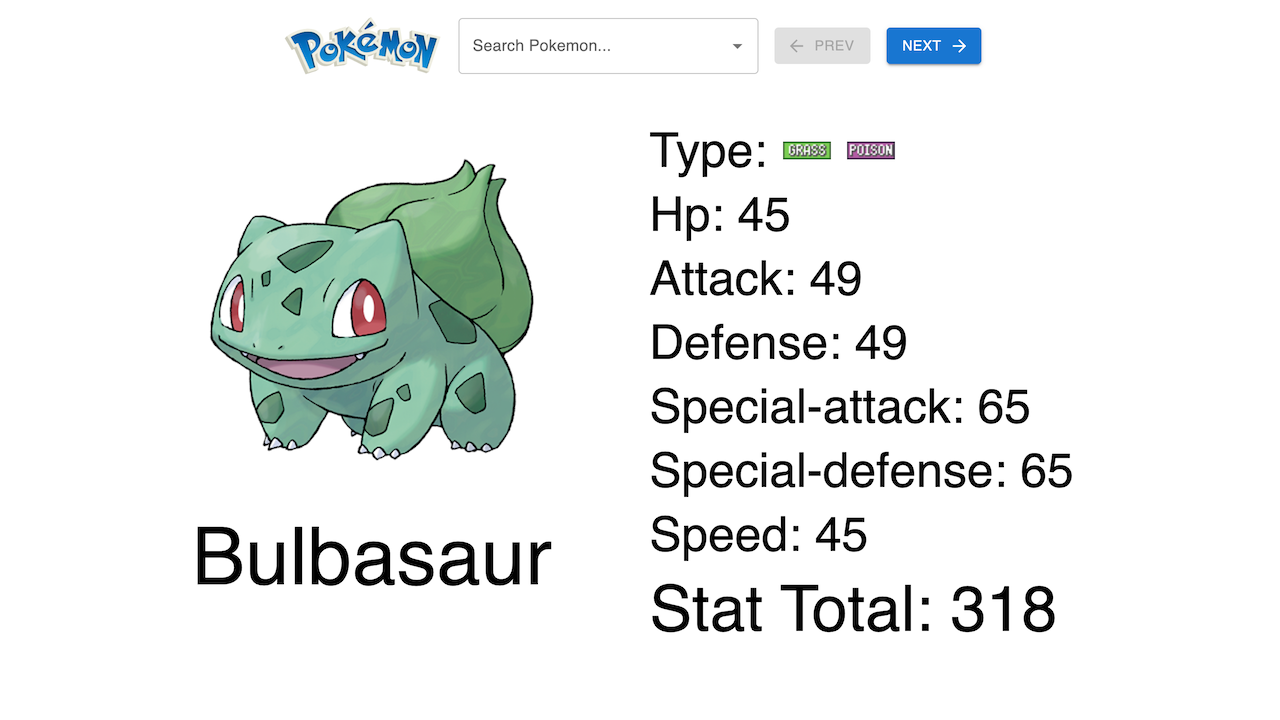
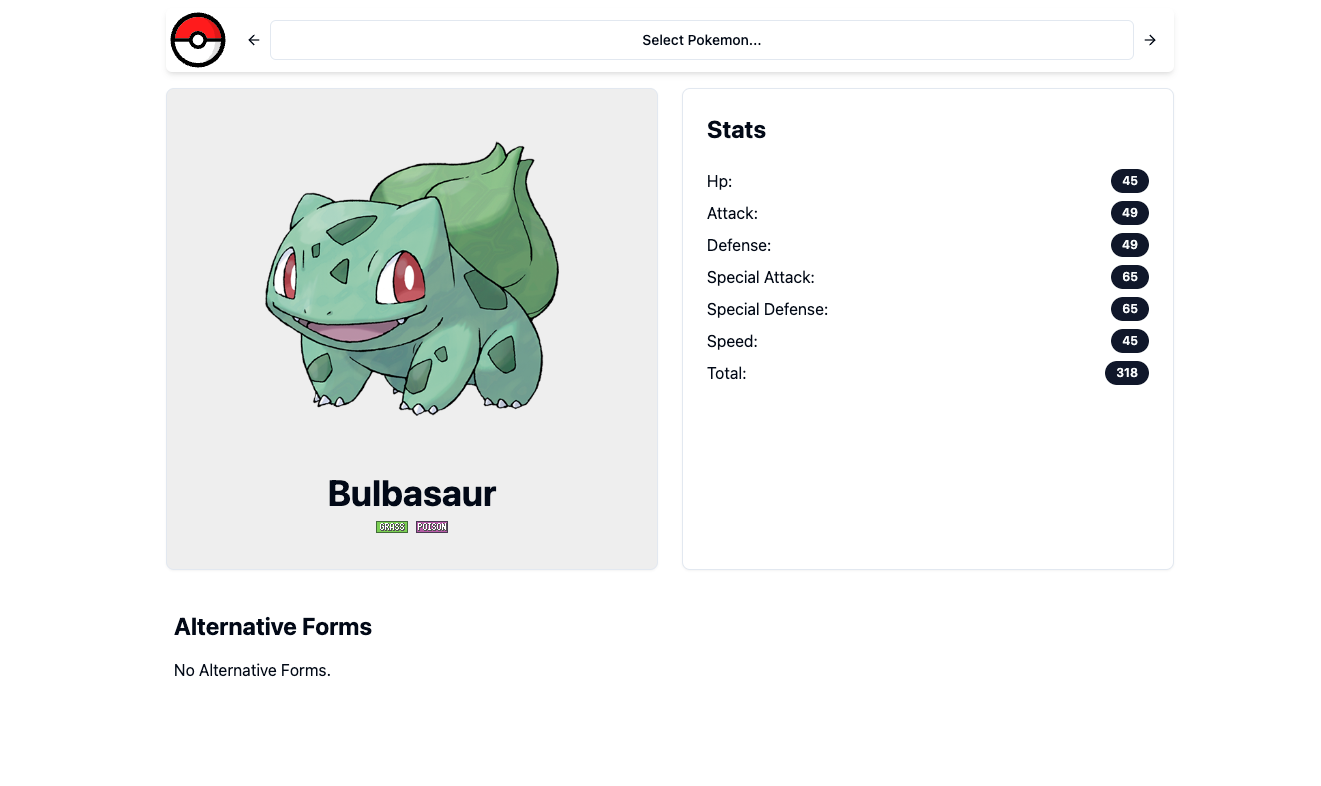
feat(content): update portfolio

diff --git a/src/content/work/pokedex.md b/src/content/work/pokedex.md
@@ -1,6 +1,6 @@
 ---
 title: Pokédex
-publishDate: 2021-03-02 00:00:00
+publishDate: 2022-03-02 00:00:00
 link: https://adam-s-gibson.github.io/pokemon-stat-dex/
 img: /assets/pokedex.png
 img_alt: A picture of a Bulbasaur with its stats and typing next to it
@@ -9,14 +9,21 @@ description: |
   A place to find information on your favourite pokémon
 tags:
   - React
-  - MaterialUI (MUI)
-  - API
+  - Shadcn/UI
+  - GraphQL
 ---
 
-Developing a Pokedex app was an exciting journey. To begin building the front-end of the app, I used MUI, a popular UI framework for React, to create a clean and visually appealing user interface. MUI provided me with pre-built components and styling guidelines, allowing me to quickly build the app's layout and features.
+Developing a comprehensive and interactive Pokémon application was a challenging and rewarding endeavor. The journey began with the decision to utilize a robust and modern tech stack to ensure a seamless and engaging user experience.
 
-For the app's functionality, I integrated the PokeAPI, a RESTful API that provides comprehensive data about the Pokemon universe. With the help of the PokeAPI, I was able to display detailed information about each Pokemon, including its name, types, and stats.
+The front-end of the application was crafted using React, a popular JavaScript library known for its efficiency and flexibility in building dynamic user interfaces. To further enhance the visual appeal and usability, Tailwind CSS was employed. This utility-first CSS framework enabled rapid styling and customization of the application, allowing for a unique and responsive design that adapts to different screen sizes and devices.
 
-To enhance the user experience, I added features such as search and filtering, allowing users to easily find Pokemon by name.
+Central to the app's functionality was the integration with the PokeAPI, a versatile GraphQL API offering extensive data on the Pokémon universe. This integration was key in fetching and displaying intricate details about each Pokémon, including their names, types, abilities, and statistical data. The use of GraphQL allowed for efficient data retrieval, minimizing bandwidth usage while providing the exact data needed for each query.
 
-By using MUI and integrating with the PokeAPI, I built a powerful and visually appealing app that provides comprehensive data about the Pokemon universe. I think developing this app was a powerful learning experience for me as a developer and a prime opportunity for growth.
+To improve the user experience and make the application more interactive, I implemented features like a dynamic search bar and filtering capabilities. These features empowered users to easily search and filter Pokémon based on various criteria, such as name, type, or abilities, providing a more personalized and engaging experience.
+
+Additionally, the application architecture was thoughtfully designed to ensure scalability and maintainability. The use of TypeScript added an extra layer of reliability with its strong typing system, catching errors early in the development process. The project was organized into modular components and utility functions, promoting reusability and keeping the codebase clean and manageable.
+
+Throughout the development process, attention was paid to best coding practices, including comprehensive error handling, consistent code formatting, and thoughtful naming conventions. This not only enhanced the code quality but also ensured that the application was robust and user-friendly.
+
+Developing this Pokémon application was a substantial learning experience, offering numerous opportunities for growth in modern web development technologies and practices. The project stands as a testament to the power of combining a well-thought-out design with efficient data handling and a user-centric approach.
+

diff --git a/src/content/work/portfolio.md b/src/content/work/portfolio.md
@@ -8,7 +8,9 @@ description: |
   This very same portfolio that you're currently looking at!
 tags:
   - Astro
-  - TypeScript
+  - HTML
+  - CSS
+  - JavaScript
 ---
 
 That's right, I am including this website on itself!
